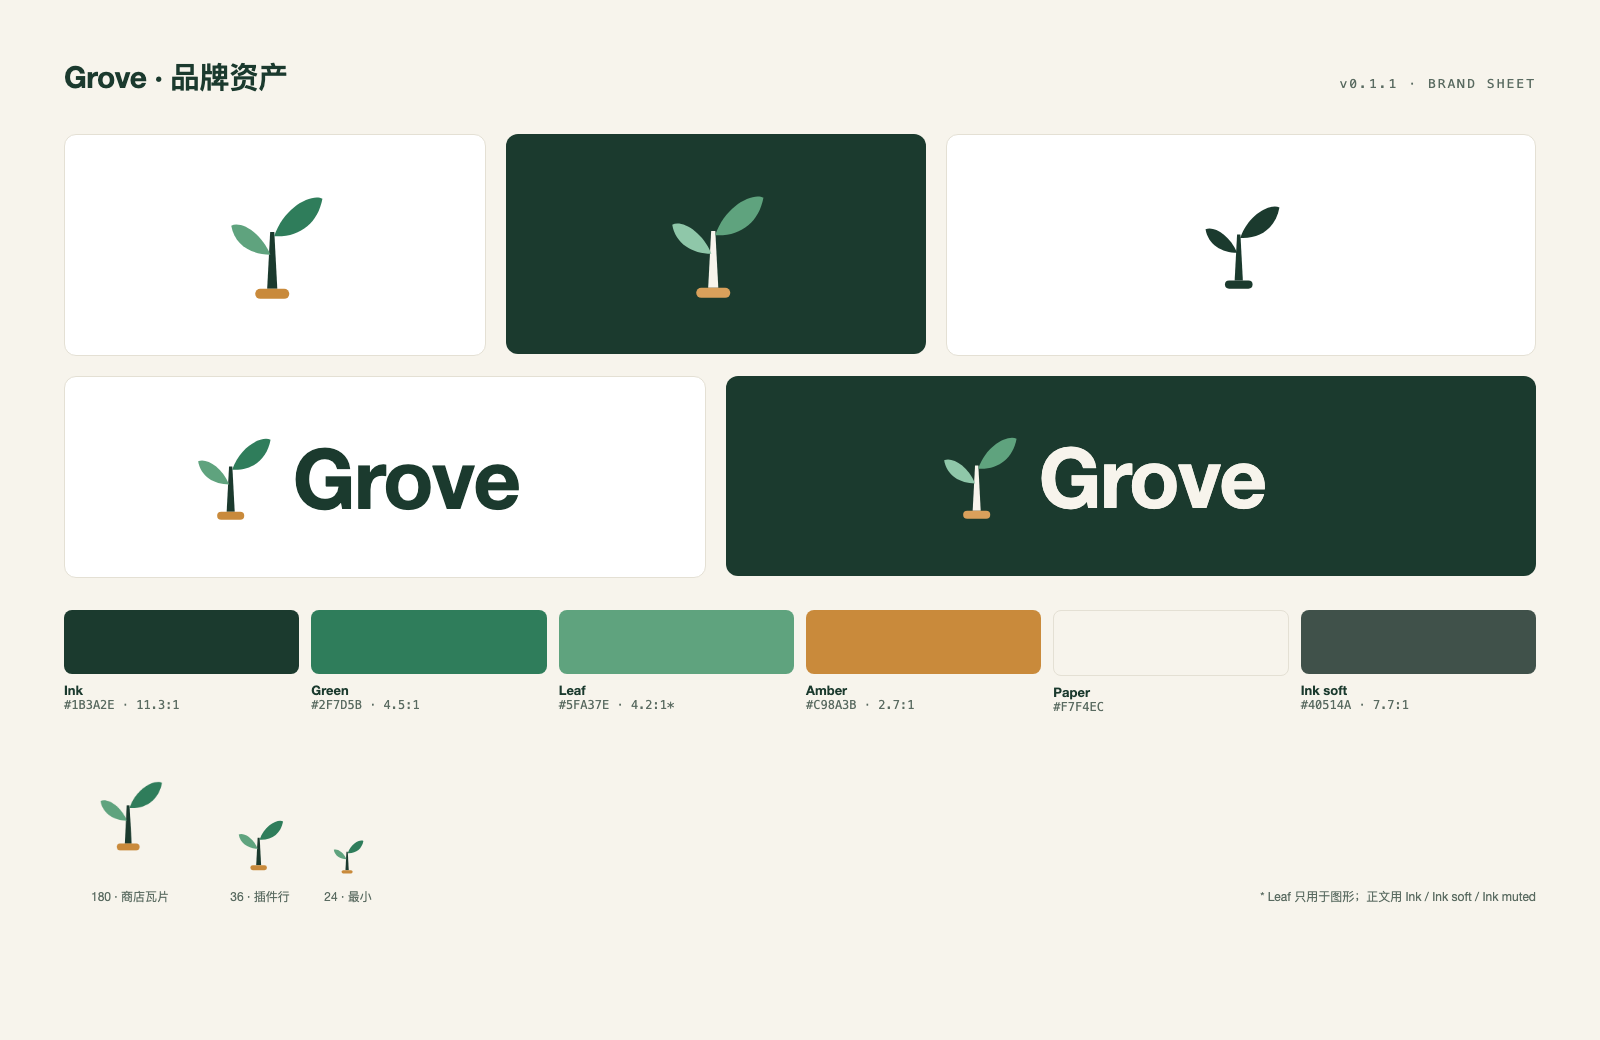
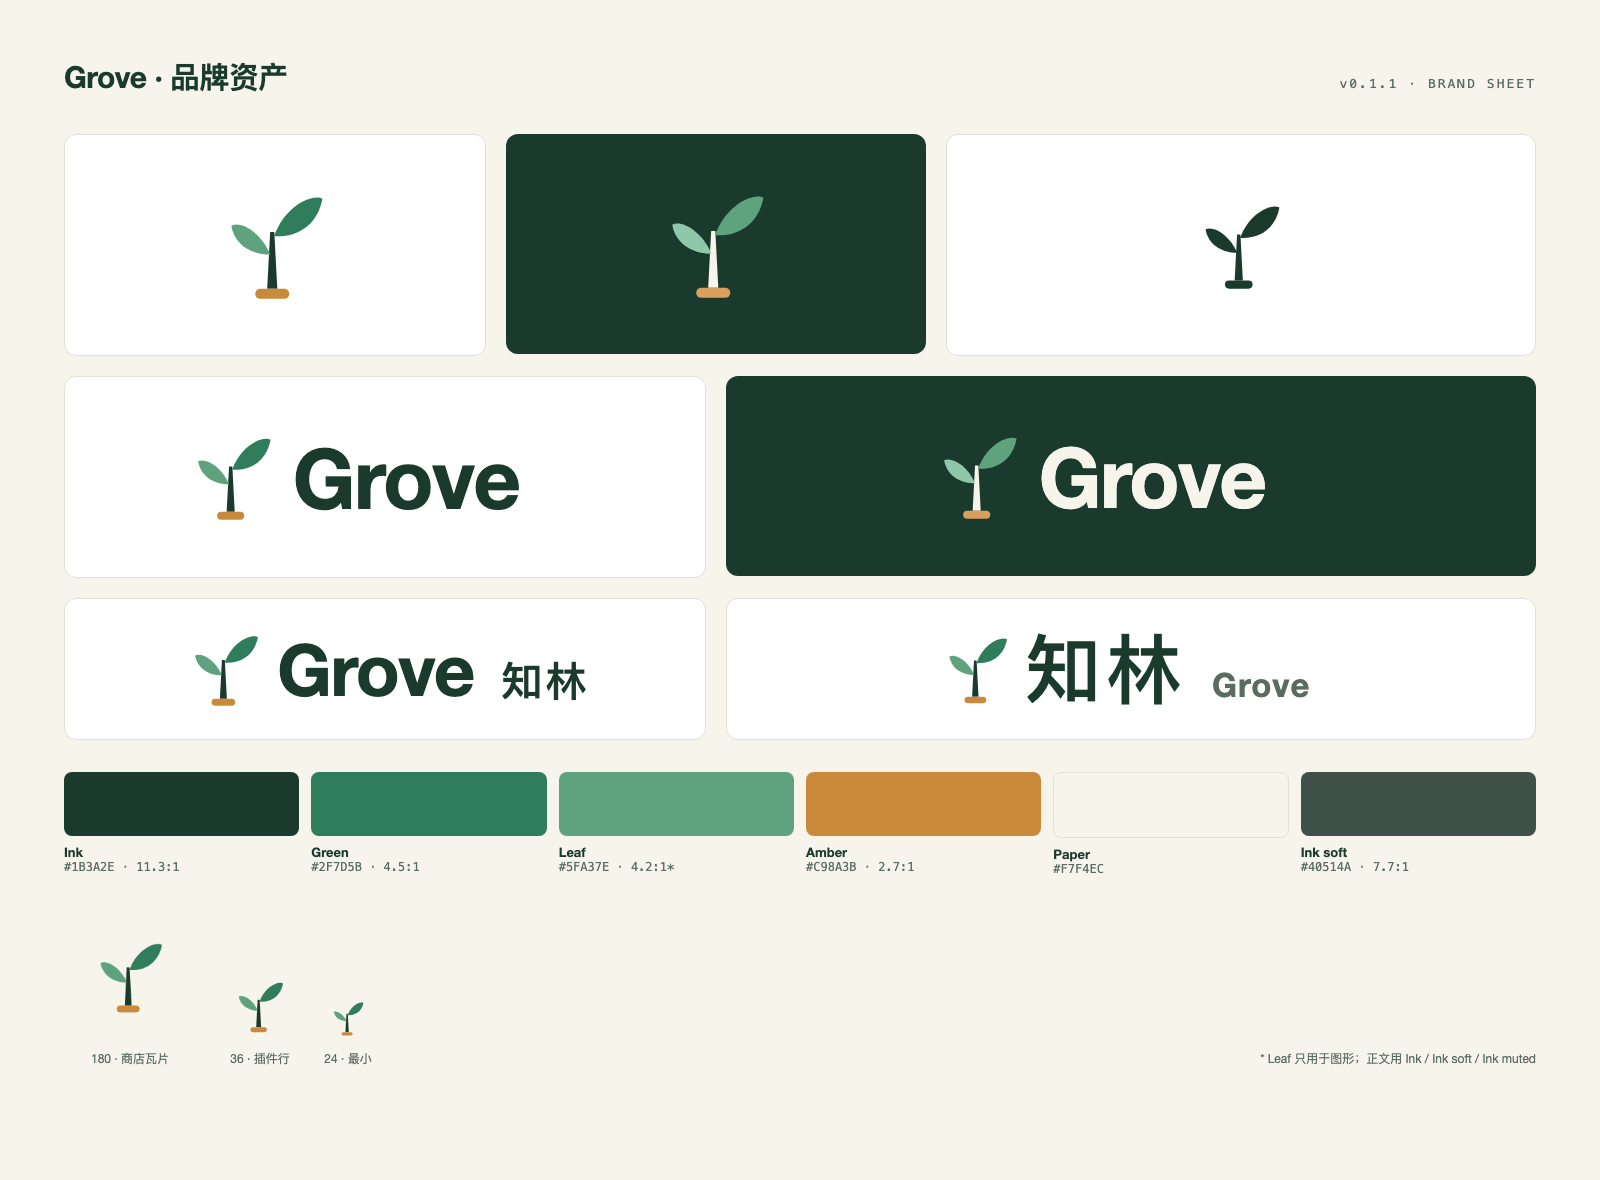
brand: 补齐英文与中文双版本素材与规范 (#11)
- 头图与社交预览各出 zh/en 两个版本，文件名带语言后缀，不再有无后缀的模糊图
- 新增中文优先锁定组合 logo-zh-primary：知林为主、Grove 为副
- 新增 VI.en.md 与 brand/README.en.md，章节、色值、对比度与中文版一一对应
- build.sh 一次产出全部语言版本，overview 一页同时展示两种锁定组合
- 测试覆盖两种语言的导出图尺寸，并断言英文版式除品牌名外不含中文、
  英文 VI 不是残篇

Closes #9

diff --git a/test/manifest.test.js b/test/manifest.test.js
@@ -150,8 +150,15 @@ test('brand assets stay out of the npm package, and icon.svg mirrors the master'
     'brand/exports/icon-180-tile.png': [180, 180],
     'brand/exports/icon-512.png': [512, 512],
     'brand/exports/icon-1024.png': [1024, 1024],
-    'brand/exports/social-preview-1280x640.png': [1280, 640],
-    'brand/exports/readme-header-1600x480.png': [1600, 480],
+    'brand/exports/logo-light.png': [528, 160],
+    'brand/exports/logo-dark.png': [528, 160],
+    'brand/exports/logo-zh.png': [608, 160],
+    'brand/exports/logo-zh-primary.png': [632, 160],
+    'brand/exports/social-preview-1280x640.zh.png': [1280, 640],
+    'brand/exports/social-preview-1280x640.en.png': [1280, 640],
+    'brand/exports/readme-header-1600x480.zh.png': [1600, 480],
+    'brand/exports/readme-header-1600x480.en.png': [1600, 480],
+    'brand/exports/overview.png': [1600, 1180],
   }
   for (const [path, [width, height]] of Object.entries(expected)) {
     const png = await readFile(join(root, path))
@@ -159,9 +166,29 @@ test('brand assets stay out of the npm package, and icon.svg mirrors the master'
     assert.deepEqual([png.readUInt32BE(16), png.readUInt32BE(20)], [width, height], `${path} size`)
   }
 
-  for (const file of ['mark.svg', 'mark-on-dark.svg', 'mark-mono.svg', 'logo-light.svg', 'logo-dark.svg', 'logo-zh.svg']) {
+  for (const file of ['mark.svg', 'mark-on-dark.svg', 'mark-mono.svg', 'logo-light.svg', 'logo-dark.svg', 'logo-zh.svg', 'logo-zh-primary.svg']) {
     const svg = await readFile(join(root, 'brand', file), 'utf8')
     assert.match(svg, /^<svg\b[^>]*>/, `${file} must be an svg element`)
     assert.match(svg.trim(), /<\/svg>$/, `${file} must be closed`)
   }
+})
+
+test('each layout ships in both languages, and the english one carries no CJK copy', async () => {
+  for (const base of ['social-preview', 'readme-header']) {
+    const en = await readFile(join(root, 'brand', 'src', `${base}.en.html`), 'utf8')
+    const zh = await readFile(join(root, 'brand', 'src', `${base}.zh.html`), 'utf8')
+    // 品牌名「知林」可以出现，其余中文不行
+    assert.doesNotMatch(en.replaceAll('知 林', '').replaceAll('知林', ''), /[\u4e00-\u9fff]/, `${base}.en.html must not contain Chinese copy`)
+    assert.match(zh, /[\u4e00-\u9fff]/, `${base}.zh.html must carry Chinese copy`)
+  }
+})
+
+test('the english VI is a full translation, not a stub', async () => {
+  const zh = await readFile(join(root, 'brand', 'VI.md'), 'utf8')
+  const en = await readFile(join(root, 'brand', 'VI.en.md'), 'utf8')
+  for (const token of ['#1B3A2E', '#2F7D5B', '#5FA37E', '#C98A3B', '#B87A2C', '#8F5F1D', '#F7F4EC', '#C3D3C9']) {
+    assert.ok(zh.includes(token), `VI.md is missing ${token}`)
+    assert.ok(en.includes(token), `VI.en.md is missing ${token}`)
+  }
+  assert.ok(en.length > zh.length * 0.6, 'VI.en.md looks truncated')
 })

diff --git a/brand/src/readme-header.en.html b/brand/src/readme-header.en.html
@@ -1,0 +1,15 @@
+<html><body style="margin:0;overflow:hidden">
+<div style="position:relative;width:1600px;height:480px;background:#F7F4EC;">
+  <div style="position:absolute;left:0;top:0;bottom:0;width:12px;background:#2F7D5B;"></div>
+  <img src="../mark.svg" style="position:absolute;left:120px;top:126px;width:228px;height:228px;">
+  <div style="position:absolute;left:400px;top:140px;font-family:'SF Pro Display','Helvetica Neue',Helvetica,Arial,sans-serif;">
+    <div style="font-size:88px;line-height:1;font-weight:600;letter-spacing:-2.5px;color:#1B3A2E;">Grove <span style="font-family:'PingFang SC','Source Han Sans SC',sans-serif;font-size:38px;font-weight:500;letter-spacing:4px;color:#2F7D5B;vertical-align:6px;">知林</span></div>
+    <div style="margin-top:22px;font-size:24px;color:#40514A;">Personal knowledge growth in Obsidian: capture ideas, keep versioned notes, research with evidence.</div>
+    <div style="margin-top:26px;display:flex;gap:12px;font-family:'SF Mono','SFMono-Regular',Menlo,monospace;font-size:15px;color:#5A6B61;">
+      <span style="border:1px solid #C3D3C9;border-radius:999px;padding:7px 16px;">dsh plugin</span>
+      <span style="border:1px solid #C3D3C9;border-radius:999px;padding:7px 16px;">Obsidian vault</span>
+      <span style="border:1px solid #C3D3C9;border-radius:999px;padding:7px 16px;">human-confirmed saves</span>
+    </div>
+  </div>
+  <div style="position:absolute;right:120px;bottom:44px;font-family:'SF Mono','SFMono-Regular',Menlo,monospace;font-size:15px;letter-spacing:2px;color:#6B7C72;">v0.1.1</div>
+</div></body></html>

diff --git a/brand/src/overview.html b/brand/src/overview.html
@@ -1,5 +1,5 @@
 <html><body style="margin:0;overflow:hidden">
-<div style="width:1600px;height:1040px;background:#F7F4EC;padding:56px 64px;box-sizing:border-box;font-family:'SF Pro Display','Helvetica Neue',Helvetica,Arial,sans-serif;color:#1B3A2E;">
+<div style="width:1600px;height:1180px;background:#F7F4EC;padding:56px 64px;box-sizing:border-box;font-family:'SF Pro Display','Helvetica Neue',Helvetica,Arial,sans-serif;color:#1B3A2E;">
   <div style="display:flex;justify-content:space-between;align-items:baseline">
     <div style="font-size:30px;font-weight:600;letter-spacing:-0.5px;">Grove · 品牌资产</div>
     <div style="font-family:'SF Mono',Menlo,monospace;font-size:13px;letter-spacing:2px;color:#5A6B61;">v0.1.1 · BRAND SHEET</div>
@@ -23,6 +23,15 @@
     </div>
     <div style="flex:1;height:200px;background:#1B3A2E;border-radius:12px;display:flex;align-items:center;justify-content:center">
       <img src="../logo-dark.svg" style="width:420px">
+    </div>
+  </div>
+
+  <div style="display:flex;gap:20px;margin-top:20px;align-items:stretch">
+    <div style="width:640px;height:140px;background:#FFFFFF;border:1px solid #E4E0D4;border-radius:12px;display:flex;align-items:center;justify-content:center">
+      <img src="../logo-zh.svg" style="width:420px">
+    </div>
+    <div style="flex:1;height:140px;background:#FFFFFF;border:1px solid #E4E0D4;border-radius:12px;display:flex;align-items:center;justify-content:center">
+      <img src="../logo-zh-primary.svg" style="width:400px">
     </div>
   </div>
 

diff --git a/brand/src/social-preview.en.html b/brand/src/social-preview.en.html
@@ -1,0 +1,12 @@
+<html><body style="margin:0;overflow:hidden">
+<div style="position:relative;width:1280px;height:640px;background:#F7F4EC;">
+  <div style="position:absolute;left:0;right:0;bottom:0;height:10px;background:#2F7D5B;"></div>
+  <img src="../mark.svg" style="position:absolute;left:112px;top:186px;width:268px;height:268px;">
+  <div style="position:absolute;left:442px;top:176px;font-family:'SF Pro Display','Helvetica Neue',Helvetica,Arial,sans-serif;">
+    <div style="font-size:104px;line-height:1;font-weight:600;letter-spacing:-3px;color:#1B3A2E;">Grove</div>
+    <div style="margin-top:18px;font-family:'PingFang SC','Source Han Sans SC',sans-serif;font-size:30px;font-weight:500;letter-spacing:6px;color:#2F7D5B;">知 林</div>
+    <div style="margin-top:34px;width:96px;height:5px;border-radius:3px;background:#C98A3B;"></div>
+    <div style="margin-top:30px;font-size:25px;line-height:1.5;color:#40514A;width:640px;">Turn conversations into versioned, traceable knowledge assets.<br>You confirm every save; every claim points back to its source.</div>
+  </div>
+  <div style="position:absolute;left:112px;bottom:44px;font-family:'SF Mono','SFMono-Regular',Menlo,monospace;font-size:16px;letter-spacing:2px;color:#6B7C72;">OBSIDIAN VAULT · DEEPSEEK HARNESS</div>
+</div></body></html>

diff --git a/brand/VI.en.md b/brand/VI.en.md
@@ -1,0 +1,71 @@
+# Grove visual identity (VI)
+
+Grove's brand line: **turn conversations into traceable knowledge assets.** The visual tone is restrained, concrete and auditable — closer to a well-filed notebook than to a poster.
+
+## 1. The mark
+
+- **What it is**: two leaves (larger dark green, smaller light green), a stem that tapers upward, and an amber baseline.
+- **What it means**: leaves are claims and evidence, the stem is the shared source they grew from, and the amber baseline is the act of saving — Grove only keeps something once you confirm it.
+- **Three versions**:
+  | File | Use |
+  | --- | --- |
+  | `brand/mark.svg` | Light backgrounds (Paper, white) |
+  | `brand/mark-on-dark.svg` | Dark backgrounds (Ink) |
+  | `brand/mark-mono.svg` | Single-ink printing, watermarks |
+- **Minimum size**: 24 px for the mark; 36 px in plugin rows; below that use only the 16 px plugin slot and add no detail.
+- **Clear space**: at least 1/4 of the mark's height on every side.
+- **Don't**: rotate, stretch, or change proportions; recolor outside the palette; add strokes, shadows, glows, or gradients; use one leaf alone; place it on a background of similar lightness.
+
+## 2. Lockups
+
+| File | Context | Min width |
+| --- | --- | --- |
+| `brand/logo-light.svg` | Light backgrounds | 120 px |
+| `brand/logo-dark.svg` | Dark backgrounds or photos | 120 px |
+| `brand/logo-zh.svg` | English wordmark first, 知林 second | 140 px |
+| `brand/logo-zh-primary.svg` | Chinese-first contexts | 150 px |
+
+The wordmark is the Latin face below at weight 600, letter-spacing -0.5 at 26 px. The gap between mark and wordmark is about 1/4 of the mark's height; don't improvise it.
+
+## 3. Color
+
+| Name | Hex | Contrast on Paper | Use |
+| --- | --- | --- | --- |
+| Ink | `#1B3A2E` | 11.3:1 | Body text, headings, dark surfaces |
+| Ink soft | `#40514A` | 7.7:1 | Secondary body text |
+| Ink muted | `#5A6B61` | 5.2:1 | Captions, metadata, mono labels |
+| Green | `#2F7D5B` | 4.5:1 | Emphasis, links, primary graphics |
+| Leaf | `#5FA37E` | 4.2:1 on Ink | Graphic layers, second leaf on dark |
+| Green pale | `#8FC7A9` | 6.5:1 on Ink | Light leaf on dark surfaces |
+| Amber | `#C98A3B` | 2.7:1 | **Decorative only**, never carries meaning |
+| Amber strong | `#B87A2C` | 3.3:1 | Amber graphics that must be recognized |
+| Amber text | `#8F5F1D` | 5.0:1 | Amber used as text |
+| Paper | `#F7F4EC` | — | Light surfaces |
+| Line | `#C3D3C9` | — | Dividers, borders, chips |
+
+Rules: body copy uses Ink / Ink soft / Ink muted only; Green is not for small body text; Amber is not for text unless it becomes `Amber text`.
+
+## 4. Type
+
+- Latin: `SF Pro Display` (headings) / `SF Pro Text` (body), falling back to `Helvetica Neue, Helvetica, Arial, sans-serif`.
+- Chinese: `PingFang SC`, falling back to `Source Han Sans SC, Noto Sans CJK SC, sans-serif`.
+- Mono: `SF Mono`, falling back to `SFMono-Regular, Menlo, monospace`; used for asset IDs, versions and labels, letter-spacing 2 px.
+- Weights: 600 for headings, 400 for body; emphasize by color, not by weight.
+- Scale: 12 / 14 / 16 / 20 / 24 / 32 / 48 / 104 px.
+
+## 5. Layout
+
+- All spacing is a multiple of 4: 4 / 8 / 12 / 16 / 24 / 32 / 48 / 64.
+- Radii: 6 px controls, 10–12 px cards, 999 px chips.
+- Surfaces: light cards are `#FFFFFF` with a `Line` border; dark blocks are Ink; no shadows.
+- One focal graphic per composition; whitespace around a text block is larger than its line height.
+
+## 6. Voice
+
+- Short sentences, verb-first, state the boundary; never promise what the product can't do.
+- Examples: `You confirm every save` / `every claim points back to its source` / `no database — copy the folder to back up`.
+- Avoid "revolutionary", "blazing", "best-in-class"; let verifiable behavior carry the value.
+
+## 7. Assets and regeneration
+
+See [`brand/README.en.md`](README.en.md). Every PNG is rendered by `brand/src/build.sh` through the local Chrome; rerun it after editing an SVG or the layout HTML. `brand/` is not part of the npm package — the plugin row only reads the root `icon.svg`.

diff --git a/brand/README.en.md b/brand/README.en.md
@@ -1,0 +1,35 @@
+# Brand assets
+
+![Grove brand sheet](exports/overview.png)
+
+## Files
+
+| Path | Size | Use |
+| --- | --- | --- |
+| `mark.svg` | 36 viewBox | Light-background mark (identical to root `icon.svg`) |
+| `mark-on-dark.svg` | 36 viewBox | Dark-background mark |
+| `mark-mono.svg` | 36 viewBox | Single ink |
+| `logo-light.svg` | 132×40 | Light-background lockup |
+| `logo-dark.svg` | 132×40 | Dark-background lockup |
+| `logo-zh.svg` | 152×40 | English wordmark with 知林 |
+| `logo-zh-primary.svg` | 158×40 | Chinese-first lockup |
+| `tokens.css` / `tokens.json` | — | Color, type, spacing, radii |
+| `exports/icon-180.png` | 180×180 PNG | Plugin-market tile (transparent) |
+| `exports/icon-180-tile.png` | 180×180 PNG | Market tile on Paper |
+| `exports/icon-512.png`, `icon-1024.png` | square PNG | Avatars, store images |
+| `exports/logo-*.png` | PNG | Documents, slides |
+| `exports/social-preview-1280x640.{en,zh}.png` | 1280×640 | GitHub social preview |
+| `exports/readme-header-1600x480.{en,zh}.png` | 1600×480 | README header |
+| `exports/overview.png` | 1600×1180 | Everything on one sheet |
+
+Spec: [`VI.en.md`](VI.en.md) (English) · [`VI.md`](VI.md) (中文).
+
+## Regenerate
+
+```sh
+cd brand/src && ./build.sh
+```
+
+Requires Google Chrome (the script renders with headless screenshots; override with `CHROME=/path/to/chrome`). `brand/src/*.html` holds the layout sources.
+
+`brand/` is not shipped in the npm package: the plugin row reads the root `icon.svg`, and the market tile is served from GitHub raw.

diff --git a/README.md b/README.md
@@ -1,6 +1,6 @@
 # Grove（知林）
 
-![Grove：让每次对话长成可追溯的知识资产](brand/exports/readme-header-1600x480.png)
+![Grove：让每次对话长成可追溯的知识资产](brand/exports/readme-header-1600x480.zh.png)
 
 Grove 是 DeepSeek Harness 的个人知识成长插件。用 Obsidian vault 保存灵感、问题、知识资产和研究证据。探索是常态，研究是选择，成果自然生长。
 
@@ -67,7 +67,7 @@ grove update RESEARCH_ID --version 3 --stage review --status closed
 
 ## 品牌资产
 
-标志、锁定组合、色板、字体与导出图都在 [`brand/`](brand/README.md)，规范见 [`brand/VI.md`](brand/VI.md)。根目录的 `icon.svg` 与 `brand/mark.svg` 保持字节一致，由测试保证。
+标志、锁定组合、色板、字体与导出图都在 [`brand/`](brand/README.md)，规范见 [`brand/VI.md`](brand/VI.md)（中文）与 [`brand/VI.en.md`](brand/VI.en.md)（English）。根目录的 `icon.svg` 与 `brand/mark.svg` 保持字节一致，由测试保证。
 
 ## 从源代码验证
 
